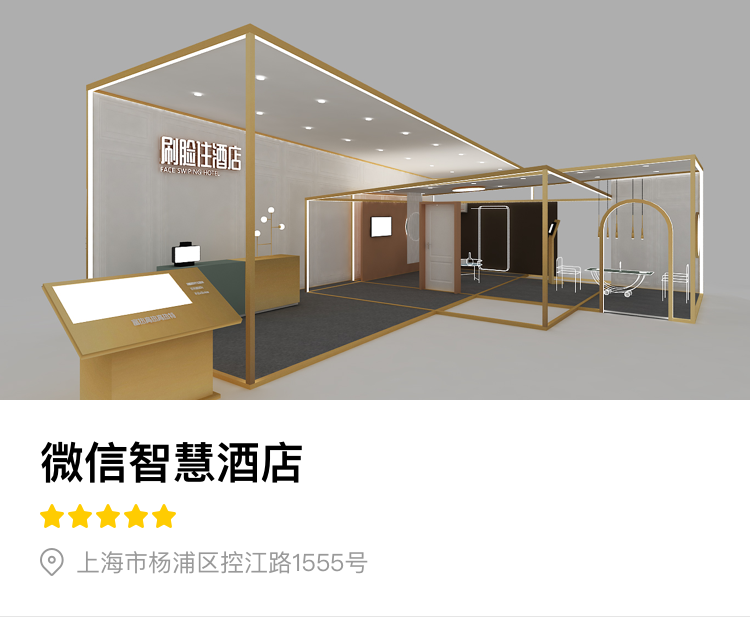
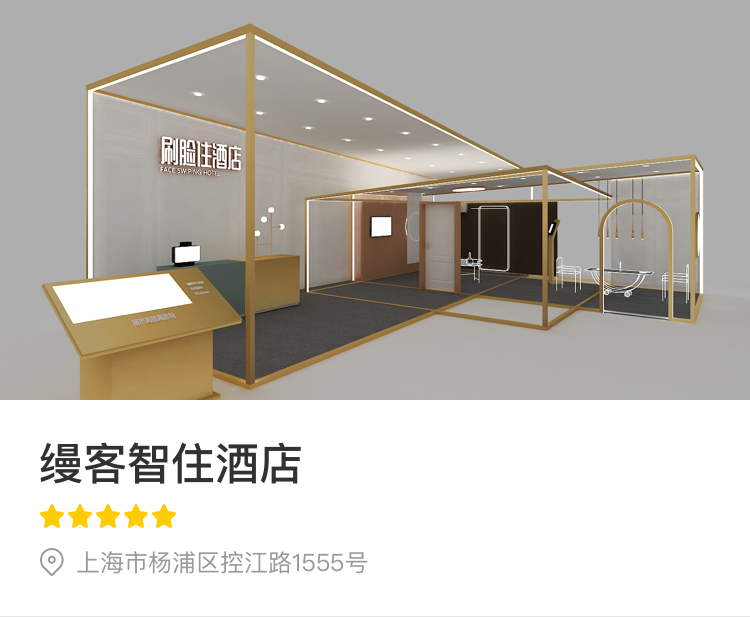
房间号变更、图片变更、title变更

Changed region(s): [[0.0307, 0.7083, 0.3987, 0.8006]]

diff --git a/src/router/index.js b/src/router/index.js
@@ -26,19 +26,19 @@ export default new Router({
       path: '/book',
       component: Book,
       meta: {
-        title: '微信智慧酒店'
+        title: '缦客智住酒店'
       }
     }, {
       path: '/bookDetail',
       component: BookDetail,
       meta: {
-        title: '微信智慧酒店'
+        title: '缦客智住酒店'
       }
     }, {
       path: '/*',
       component: Index,
       meta: {
-        title: '微信智慧酒店'
+        title: '缦客智住酒店'
       }
     }
   ]

diff --git a/src/views/book.vue b/src/views/book.vue
@@ -2,7 +2,7 @@
   <div>
     <div class="cot">
       <br>
-      <h2>微信智慧酒店</h2>
+      <h2>缦客智住酒店</h2>
       <br>
       <div class="detail">
         <p>
@@ -74,7 +74,7 @@ export default {
   data () {
     return {
         disableBtn:false,
-      roomNo: '202',
+      roomNo: '888',
       owner: '',
       ownerTel: '',
       today: utils.datetimeparse(Today, 'MM／DD'),

diff --git a/src/views/bookDetail.vue b/src/views/bookDetail.vue
@@ -2,7 +2,7 @@
   <div style="height: 100%;width:100%;position: fixed;bottom: 0" >
     <br>
     <div style="padding-left: 1rem;">
-        <h2>微信智慧酒店</h2>
+        <h2>缦客智住酒店</h2>
         <br>
         <div class="detail">
           <p>
